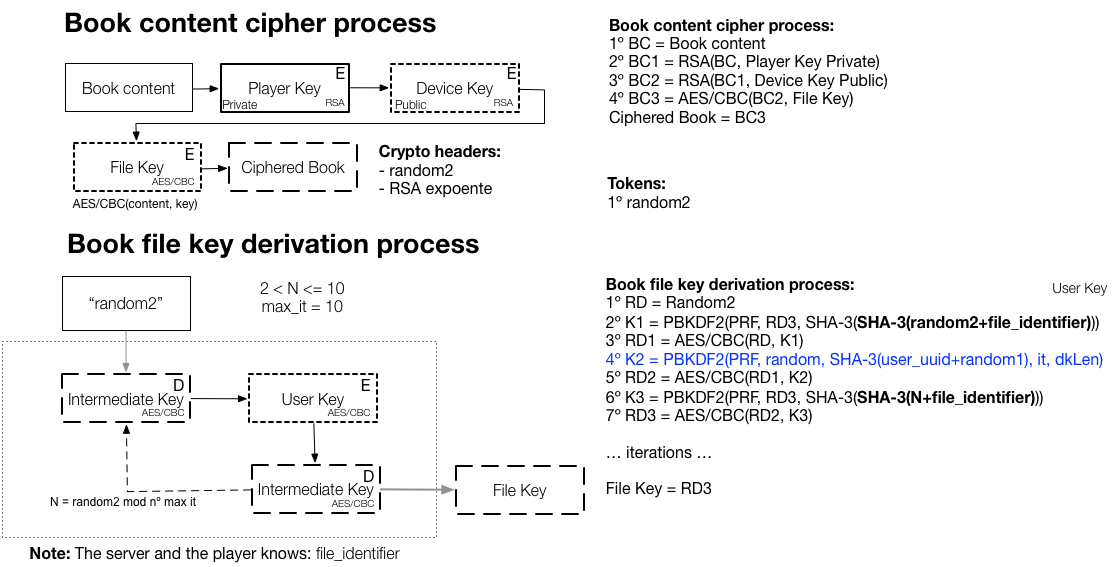
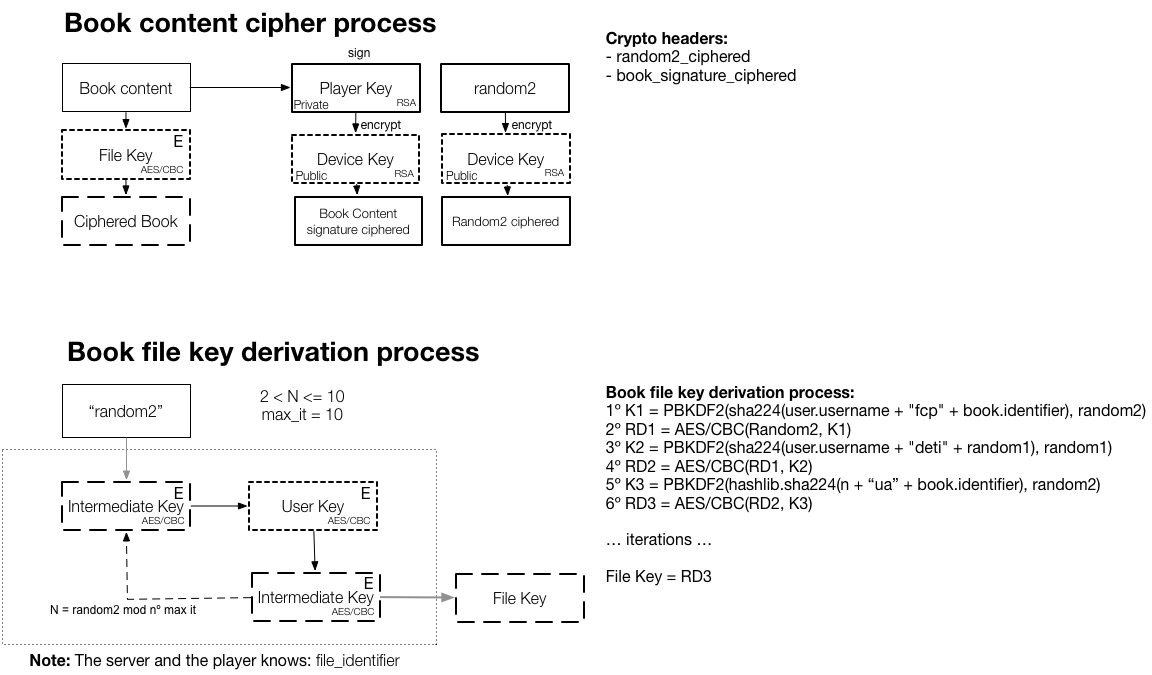
final cipher

diff --git a/src/m1/iedcs-server/security/functions.py b/src/m1/iedcs-server/security/functions.py
@@ -49,7 +49,7 @@ def encrypt_book_content(book, user, device):
         k2 = PBKDF2(hashlib.sha224(user.username + "deti" + random1).hexdigest(), random1).read(32)
 
         # rd2 = AES/CBC(rd1, k2)
-        rd2 = AESCipher.encrypt(rd1, k2)
+        rd2 = AESCipher.decrypt(rd1, k2)
 
         # k3 = PBKDF2(hashlib.sha224(n + "ua" + book.identifier), random2)
         k3 = PBKDF2(hashlib.sha224(str(n) + "ua" + book.identifier).hexdigest(), random2).read(32)
@@ -64,9 +64,9 @@ def encrypt_book_content(book, user, device):
     public_key_device = device.public_key.read()
 
     pubkey = rsa.PublicKey.load_pkcs1(public_key_device)
-    privKey = rsa.PrivateKey.load_pkcs1(private_key_player)
+    priv_key = rsa.PrivateKey.load_pkcs1(private_key_player)
 
-    book_signed = base64.b64encode(rsa.sign(book.original_file, privKey, 'SHA-256'))
+    book_signed = base64.b64encode(rsa.sign(book.original_file, priv_key, 'SHA-256'))
     random2_signed = base64.b64encode(rsa.encrypt(str(random2), pubkey))
 
     class BookSecurityResult:

diff --git a/src/m1/iedcs-server/security/aescipher.py b/src/m1/iedcs-server/security/aescipher.py
@@ -16,7 +16,7 @@ class AESCipher(object):
     def decrypt(content_ciphered, key):
         enc = base64.b64decode(content_ciphered)
         cipher = AES.new(key, AES.MODE_CBC, enc[:AES.block_size])
-        return AESCipher.unpad(cipher.decrypt(enc[AES.block_size:])).decode('utf-8')
+        return AESCipher.unpad(cipher.decrypt(enc[AES.block_size:]))
 
     @staticmethod
     def pad(s):
